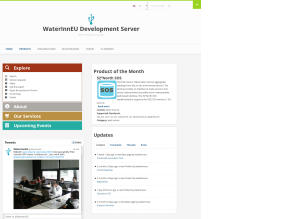
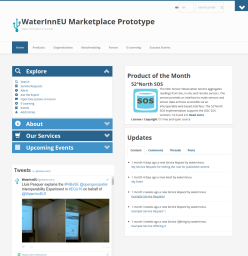
Update theme "n52_wieu_theme"
- Add randomly display header background image

diff --git a/sites/all/themes/n52_wieu_theme/css/global-styles.css b/sites/all/themes/n52_wieu_theme/css/global-styles.css
@@ -199,6 +199,22 @@ li.no-list-style {
 	list-style-type: none;
 }
 
+
+/******************************************************************************
+ *                                                                            *
+ *                            Header polish                                   *
+ *                                                                            *
+ ******************************************************************************/
+#header {
+	background: none;
+	background-repeat: no-repeat;
+	background-position: center center;
+}
+
+#site-slogan {
+	font-weight: bold;
+	font-size: 16px;
+}
 /******************************************************************************
  *                                                                            *
  *                            Node display                                    *

diff --git a/sites/all/themes/n52_wieu_theme/css/colors.css b/sites/all/themes/n52_wieu_theme/css/colors.css
@@ -161,3 +161,7 @@ ul.pager li a, ul.pager li.pager-current {
 span.background {
     color: #cecece;
 }
+
+#site-slogan {
+    color: #29648C;
+}

diff --git a/sites/all/themes/n52_wieu_theme/template.php b/sites/all/themes/n52_wieu_theme/template.php
@@ -216,3 +216,20 @@ function n52_waterinneu_theme_node_last_updated($changed, $user_name) {
 		'</span>';
 	return $output;
 }
+
+/**
+ * Returns a randomly choosen absolute web context path to an header background
+ * image from images folder in current theme.
+ */
+function n52_random_header_background_image_path(){
+	$folder = path_to_theme() . '/images';
+	if (file_exists($folder)) {
+		GLOBAL $base_url;
+		$mask = '/^header-background-*/';
+		$files = file_scan_directory($folder, $mask);
+		return $base_url . '/' . array_keys($files)[rand(0,count($files)-1)];
+//		return "/drupal/sites/all/themes/n52_wieu_theme/images/header-background-30.png";
+	} else {
+		return "";
+	}
+}

diff --git a/sites/all/themes/n52_wieu_theme/html.tpl.php b/sites/all/themes/n52_wieu_theme/html.tpl.php
@@ -250,5 +250,17 @@
   })(jQuery); 
   </script>
   <?php } ?>
+    <?php 
+  /* 
+   * This function changes the header background image randomly 
+   */
+  ?>
+  <script type="text/javascript">
+  (function($) {
+	  $(document).ready(function () {
+		  $('#header').css('background-image','url(<?php print n52_random_header_background_image_path(); ?>)');
+	  });
+  })(jQuery); 
+  </script>
 </body>
 </html>
